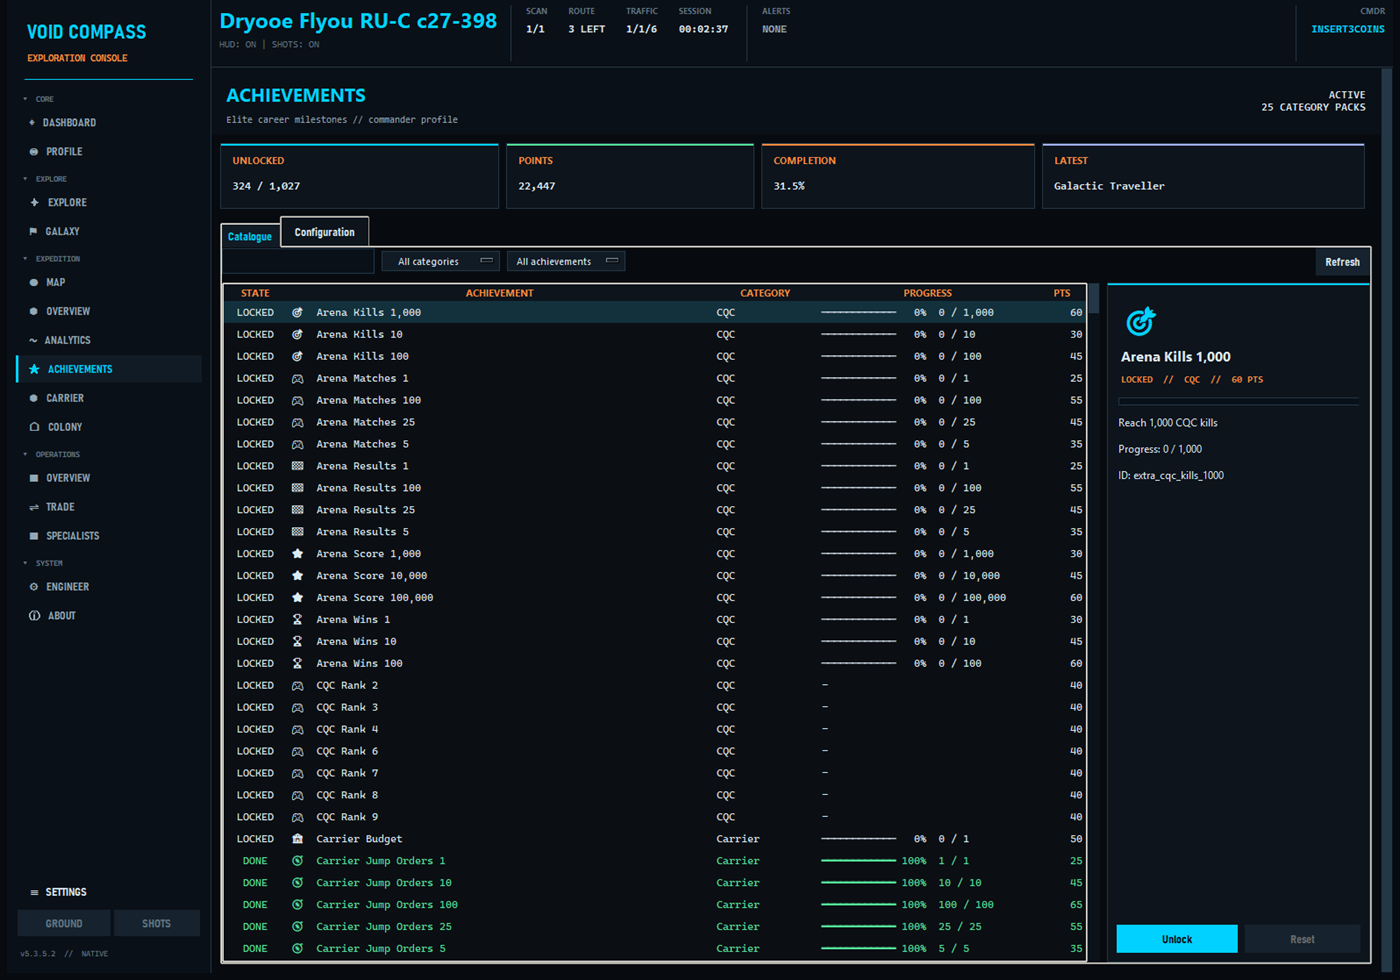
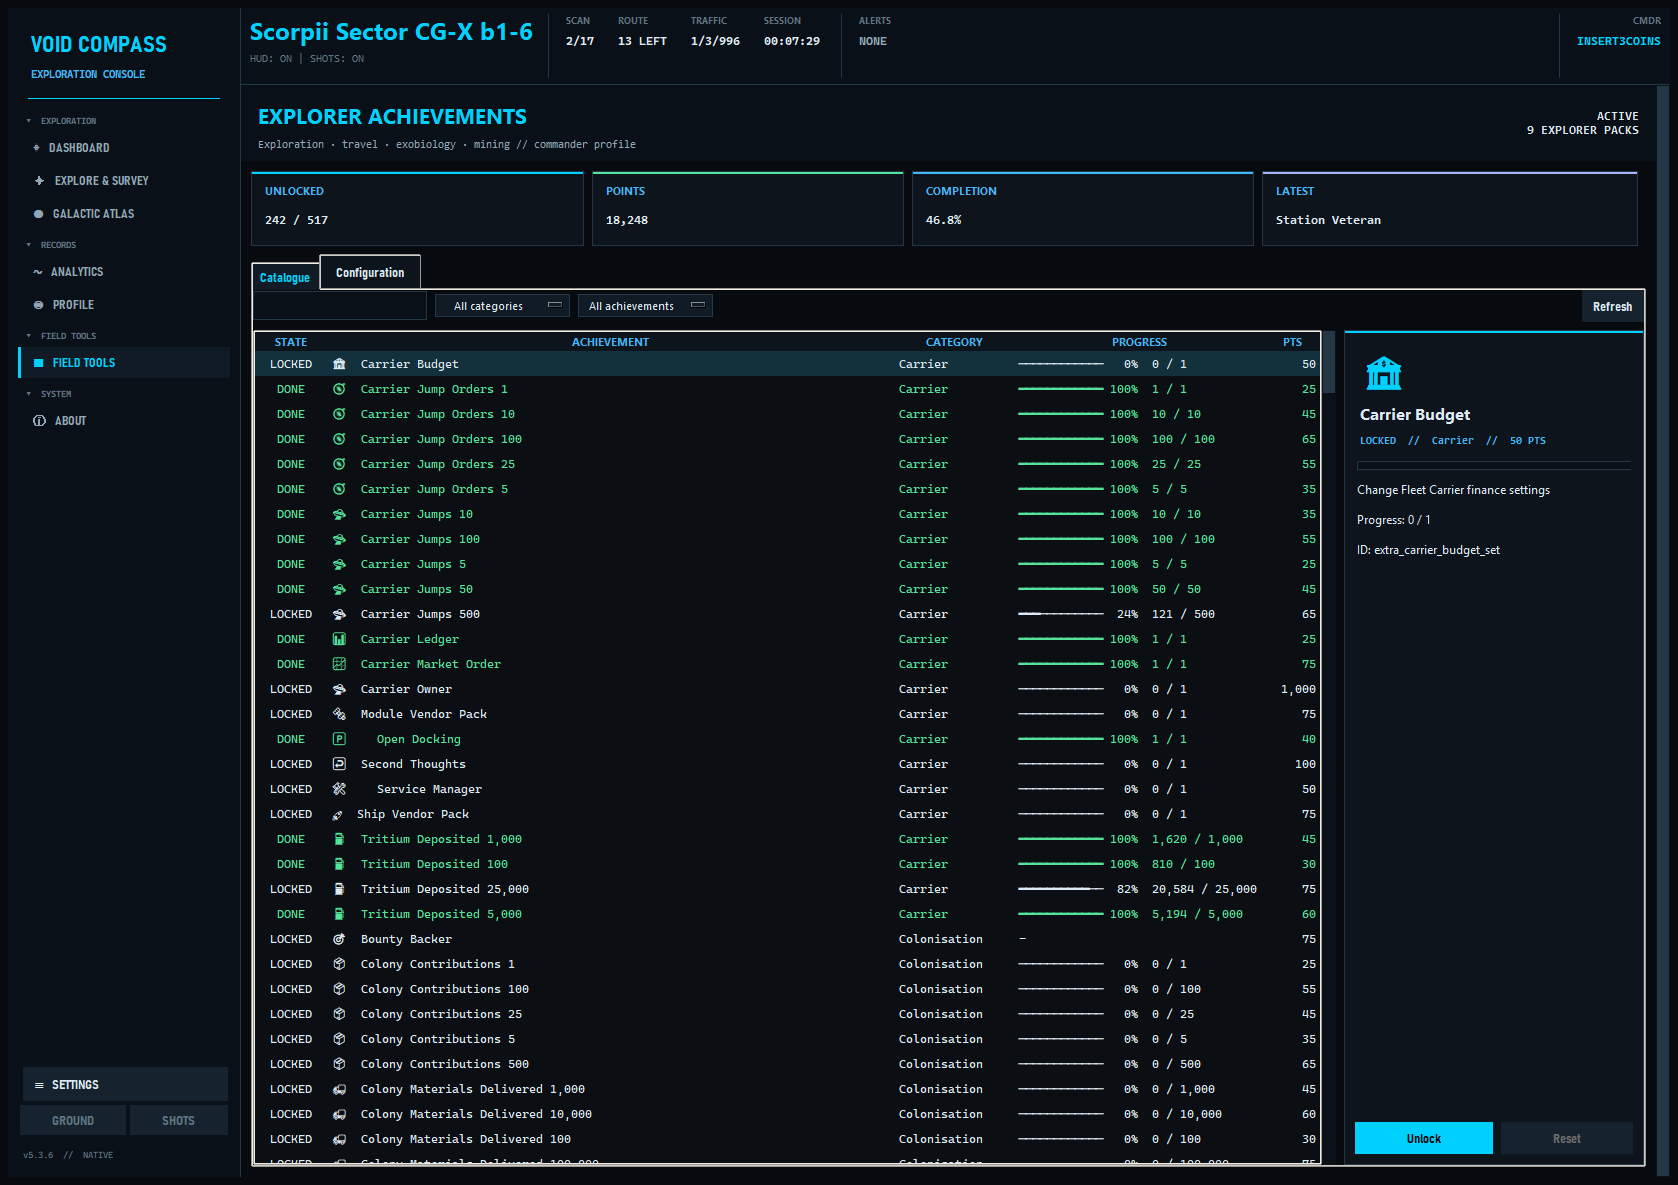
Refresh README screenshots for v5.3.6

diff --git a/README.md b/README.md
@@ -52,6 +52,10 @@ Explore integrates profile-local Deep Survey intelligence directly into its four
 
 Expedition Overview acts as a live command centre, combining current-leg navigation, route progress, objectives, survey yield, unsold data, return planning, ship readiness and recent activity without replacing the detailed Mission Control, Waypoints or Route Intelligence tools.
 
+![Void Compass Expedition Command](ExpeditionCommand.PNG)
+
+*Expedition Command brings the current leg, route safety, return plan, ship readiness, objectives and recent field activity into one live overview.*
+
 Named expeditions persist across sessions with journal-verified goals, multi-session statistics, prioritised bookmarks and revisit targets. Seven ready-made goal templates cover region passports, valuable worlds, Odyssey genera, local sectors, Codex fieldwork, expedition photography and mixed deep surveys. Departing a system can add worthwhile unfinished mapping, biology or FSS evidence to the Missed Discoveries queue, which links directly to its Revisit map layer and expedition bookmarks. Their active strip remains visible across Explore, while verified progress appears through the native feed, toasts and expedition panels. The flat Galactic Atlas combines original game-style Milky Way artwork with the complete 42-region Universal Cartographics layout. It works fully offline, supports retained-system, region and annotation search, natural drag movement, cursor-centred zoom, Atlas/Route Focus/Current Vicinity framing and an in-place full-window focus mode, and overlays profile-local travel breadcrumbs, game and waypoint routes, direction arrows, an optional return trail plus Valuable, Biology, Codex, Photo, Recon, Revisit, Bookmark, custom Annotation and bounded Expedition Sector records. Notes, danger warnings, regions of interest, survey targets and waypoints can be placed directly on the map; zoom-aware cluster badges keep dense histories legible, while a restrained ship pulse, planned-route tracer and next-waypoint beacon add live navigation context without rebuilding the cached atlas. Sector cells retain surveyed and incomplete evidence while untouched cells are sampled for responsive galaxy-wide control. Visible-image cropping keeps navigation responsive, while expedition plans can be exchanged as VoidCompass JSON or newline waypoint lists and full locally generated Markdown reports include the named route, objectives, evidence and bookmarks.
 
 ![Void Compass Galactic Atlas](GalaxyAtlas.PNG)
@@ -67,6 +71,10 @@ Void Compass deliberately leaves trade-route planning to dedicated services. It 
 ### Explorer Field Tools
 
 Mining is the single intentional side activity. Its journal-driven workspace records prospector quality, refinery and cargo yield, core cracks, limpets and their observed cost, attributable commodity sales, hourly performance and per-commander history; the Prospector Analysis overlay remains a first-class cockpit surface. The Ground tool starts a temporary, profile-isolated trail at touchdown, records meaningful walking/SRV movement and bio sample sites, then shows distance and bearing back to the ship or makes the landing point the active ground target. Ground/Exobiology, exploration Engineering/Synthesis, Colonisation Recon and exploration/mining achievement packs complete the focused Field Tools page without exposing general Combat, Powerplay, Squadron or BGS workspaces.
+
+![Void Compass Explorer Field Tools](FieldTools.PNG)
+
+*The deliberately compact Field Tools hub keeps Ground/Exobiology, Mining, exploration Engineering, Colonisation Recon and Explorer Achievements available without crowding the primary rail.*
 
 Carrier Command plots Fleet and Squadron Carrier routes through Spansh, can import an existing Fleet Carrier result URL or job, marks journal-confirmed arrivals complete and advances Copy Next to the first pending jump, and carries route/fuel progress into the carrier overlay. Its Tritium view finds known hotspots around the carrier through Spansh and can copy or add a selected system to the expedition; its Cargo view combines the exact journal cargo total with an explicitly labelled manual/observed commodity manifest and active market orders.
 
@@ -104,6 +112,8 @@ Achievement progress, exploration history, named expeditions, bookmarks, Captain
 Commander Record can create SQLite-safe manual profile backups and schedule a restore for the next application start. VoidCompass also retains five rotating internal safety snapshots before version changes and cache rebuilds; a restore first preserves the replaced profile as a rollback snapshot.
 
 ![Native Achievement Centre](Achievements.PNG)
+
+*Explorer Achievements keeps the active packs centred on exploration, travel, exobiology, expeditions, carriers, colonisation and mining.*
 
 ## Native feedback
 
